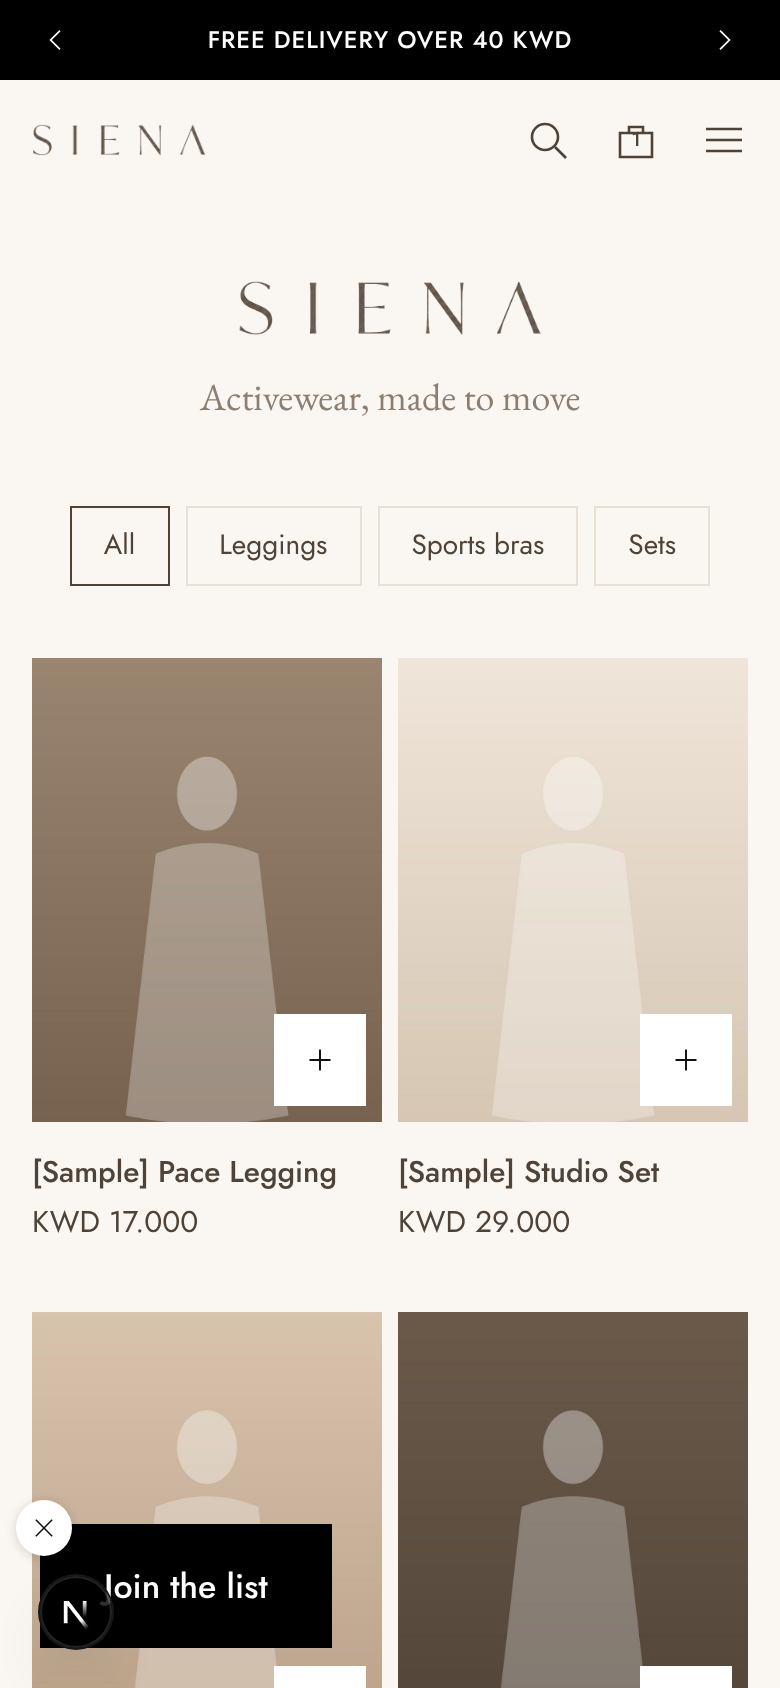
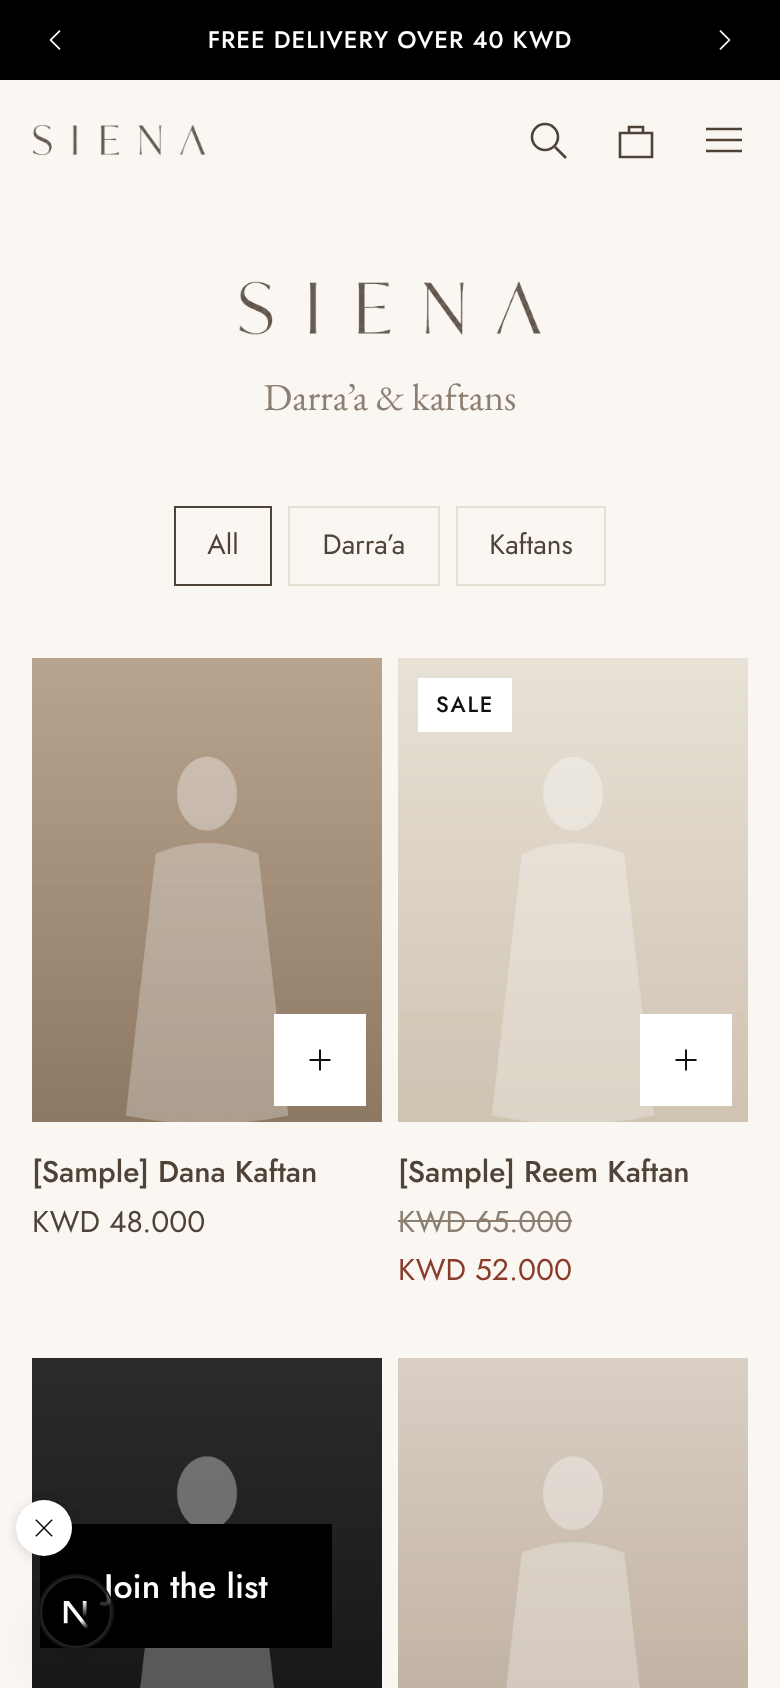
Formé is the activewear brand and Siena the darra'a brand
Swap the product lines in brand labels, interface text, sample data, README and
screenshots. Each brand keeps its own logo and colours.

Claude-Session: https://claude.ai/code/session_016LfKq5PNRajvigzyTZ3aCG

diff --git a/src/seed.ts b/src/seed.ts
@@ -51,11 +51,11 @@ async function placeholder(name: string, top: string, bottom: string, width = 90
 
 type Cat = { en: string; ar: string; brand: 'forme' | 'siena'; colors: [string, string] }
 const categoryDefs: Cat[] = [
-  { en: 'Darra’a', ar: 'دراعات', brand: 'forme', colors: ['#d9cfc4', '#a8957f'] },
-  { en: 'Kaftans', ar: 'قفاطين', brand: 'forme', colors: ['#3a3735', '#141312'] },
-  { en: 'Leggings', ar: 'ليقنز', brand: 'siena', colors: ['#8e7965', '#4f4337'] },
-  { en: 'Sports bras', ar: 'حمالات رياضية', brand: 'siena', colors: ['#e6d9ca', '#b89f86'] },
-  { en: 'Sets', ar: 'أطقم', brand: 'siena', colors: ['#cdb59c', '#76624f'] },
+  { en: 'Darra’a', ar: 'دراعات', brand: 'siena', colors: ['#d9cfc4', '#a8957f'] },
+  { en: 'Kaftans', ar: 'قفاطين', brand: 'siena', colors: ['#3a3735', '#141312'] },
+  { en: 'Leggings', ar: 'ليقنز', brand: 'forme', colors: ['#6c6965', '#161616'] },
+  { en: 'Sports bras', ar: 'حمالات رياضية', brand: 'forme', colors: ['#e4e2dd', '#a9a6a1'] },
+  { en: 'Sets', ar: 'أطقم', brand: 'forme', colors: ['#cfcdc9', '#4a4845'] },
 ]
 const categories: Record<string, number> = {}
 for (const [i, c] of categoryDefs.entries()) {
@@ -88,7 +88,7 @@ const samples: Sample[] = [
   {
     en: 'Noor Darra’a',
     ar: 'دراعة نور',
-    brand: 'forme',
+    brand: 'siena',
     category: 'Darra’a',
     price: 38,
     colors: [
@@ -101,7 +101,7 @@ const samples: Sample[] = [
   {
     en: 'Layal Darra’a',
     ar: 'دراعة ليال',
-    brand: 'forme',
+    brand: 'siena',
     category: 'Darra’a',
     price: 45,
     colors: [
@@ -114,7 +114,7 @@ const samples: Sample[] = [
   {
     en: 'Reem Kaftan',
     ar: 'قفطان ريم',
-    brand: 'forme',
+    brand: 'siena',
     category: 'Kaftans',
     price: 52,
     compareAtPrice: 65,
@@ -128,7 +128,7 @@ const samples: Sample[] = [
   {
     en: 'Dana Kaftan',
     ar: 'قفطان دانة',
-    brand: 'forme',
+    brand: 'siena',
     category: 'Kaftans',
     price: 48,
     colors: [
@@ -141,12 +141,12 @@ const samples: Sample[] = [
   {
     en: 'Sculpt Legging',
     ar: 'ليقنز سكلبت',
-    brand: 'siena',
+    brand: 'forme',
     category: 'Leggings',
     price: 18,
     colors: [
-      ['#6b5a4a', '#4f4337'],
-      ['#5e4f41', '#43392f'],
+      ['#3b3b3b', '#161616'],
+      ['#2e2e2e', '#111111'],
     ],
     sizes: ['XS', 'S', 'M', 'L'],
     featured: true,
@@ -154,12 +154,12 @@ const samples: Sample[] = [
   {
     en: 'Flow Bra',
     ar: 'حمالة فلو',
-    brand: 'siena',
+    brand: 'forme',
     category: 'Sports bras',
     price: 12,
     colors: [
-      ['#d8c3ad', '#b89f86'],
-      ['#cdb59c', '#a88e74'],
+      ['#d9d7d3', '#a9a6a1'],
+      ['#cfcdc9', '#9c9993'],
     ],
     sizes: ['XS', 'S', 'M', 'L'],
     featured: true,
@@ -167,12 +167,12 @@ const samples: Sample[] = [
   {
     en: 'Studio Set',
     ar: 'طقم ستوديو',
-    brand: 'siena',
+    brand: 'forme',
     category: 'Sets',
     price: 29,
     colors: [
-      ['#efe5d9', '#d6c6b3'],
-      ['#e6d9ca', '#cbb8a2'],
+      ['#efeee9', '#c9c6bf'],
+      ['#e4e2dd', '#bdbab3'],
     ],
     sizes: ['S', 'M', 'L'],
     featured: true,
@@ -180,12 +180,12 @@ const samples: Sample[] = [
   {
     en: 'Pace Legging',
     ar: 'ليقنز بيس',
-    brand: 'siena',
+    brand: 'forme',
     category: 'Leggings',
     price: 17,
     colors: [
-      ['#9a8571', '#76624f'],
-      ['#8e7965', '#6a5745'],
+      ['#77746f', '#4a4845'],
+      ['#6c6965', '#403e3b'],
     ],
     sizes: ['XS', 'S', 'M'],
     featured: true,
@@ -233,10 +233,10 @@ await payload.updateGlobal({
   data: {
     announcements: [
       { text: 'Free delivery over 40 KWD' },
-      { text: 'New Formé darra’a for the season' },
+      { text: 'New Siena darra’a for the season' },
     ],
-    formeTagline: 'Darra’a & kaftans',
-    sienaTagline: 'Activewear, made to move',
+    formeTagline: 'Activewear, made to move',
+    sienaTagline: 'Darra’a & kaftans',
     shippingFee: 2,
     freeShippingThreshold: 40,
   },
@@ -248,17 +248,17 @@ await payload.updateGlobal({
   data: {
     announcements: (settings.announcements ?? []).map((a, i) => ({
       id: a.id,
-      text: ['توصيل مجاني للطلبات فوق ٤٠ د.ك', 'دراعات فورميه الجديدة للموسم'][i],
+      text: ['توصيل مجاني للطلبات فوق ٤٠ د.ك', 'دراعات سيينا الجديدة للموسم'][i],
     })),
-    formeTagline: 'دراعات وقفاطين',
-    sienaTagline: 'ملابس رياضية للحركة',
+    formeTagline: 'ملابس رياضية للحركة',
+    sienaTagline: 'دراعات وقفاطين',
   },
 })
 
-const formeHero = await placeholder('Formé cover', '#cfc4b8', '#8d7b69', 1800, 1100)
-const formeHeroMobile = await placeholder('Formé cover phone', '#cfc4b8', '#8d7b69', 900, 1500)
-const sienaHero = await placeholder('Siena cover', '#9a8571', '#43392f', 1800, 1100)
-const sienaHeroMobile = await placeholder('Siena cover phone', '#9a8571', '#43392f', 900, 1500)
+const formeHero = await placeholder('Formé cover', '#8f8a84', '#2b2927', 1800, 1100)
+const formeHeroMobile = await placeholder('Formé cover phone', '#8f8a84', '#2b2927', 900, 1500)
+const sienaHero = await placeholder('Siena cover', '#d8cbbb', '#9a8571', 1800, 1100)
+const sienaHeroMobile = await placeholder('Siena cover phone', '#d8cbbb', '#9a8571', 900, 1500)
 
 await payload.updateGlobal({
   slug: 'homepage',
@@ -270,7 +270,7 @@ await payload.updateGlobal({
         media: formeHero.id,
         mobileMedia: formeHeroMobile.id,
         logo: 'forme',
-        title: 'The new season',
+        title: 'Made to move',
         linkBrand: 'forme',
       },
       {
@@ -284,14 +284,14 @@ await payload.updateGlobal({
         blockType: 'statement',
         text: 'Best selling pieces',
         subtitle: 'Feminine and flattering.',
-        linkBrand: 'forme',
+        linkBrand: 'siena',
       },
       {
         blockType: 'hero',
         media: sienaHero.id,
         mobileMedia: sienaHeroMobile.id,
         logo: 'siena',
-        title: 'Made to move',
+        title: 'The new season',
         linkBrand: 'siena',
       },
       {
@@ -307,10 +307,10 @@ await payload.updateGlobal({
 })
 const home = await payload.findGlobal({ slug: 'homepage', depth: 0 })
 const arText: Record<string, Record<string, string>> = {
-  0: { title: 'الموسم الجديد' },
+  0: { title: 'صُممت للحركة' },
   1: { title: 'فورميه — وصل حديثاً' },
   2: { text: 'القطع الأكثر مبيعاً', subtitle: 'أنيقة ومريحة.' },
-  3: { title: 'صُممت للحركة' },
+  3: { title: 'الموسم الجديد' },
   4: { title: 'سيينا — وصل حديثاً' },
   5: { title: 'تسوّقي حسب الفئة' },
 }

diff --git a/src/lib/i18n.ts b/src/lib/i18n.ts
@@ -9,8 +9,8 @@ const en = {
   shop: 'Shop',
   shopAll: 'Shop all',
   all: 'All',
-  formeLine: 'Darra’a & kaftans',
-  sienaLine: 'Activewear',
+  formeLine: 'Activewear',
+  sienaLine: 'Darra’a & kaftans',
   newIn: 'New in',
   bag: 'Bag',
   bagEmpty: 'Your bag is empty.',
@@ -90,8 +90,8 @@ const ar: Dictionary = {
   shop: 'تسوّقي',
   shopAll: 'عرض الكل',
   all: 'الكل',
-  formeLine: 'دراعات وقفاطين',
-  sienaLine: 'ملابس رياضية',
+  formeLine: 'ملابس رياضية',
+  sienaLine: 'دراعات وقفاطين',
   newIn: 'وصل حديثاً',
   bag: 'الحقيبة',
   bagEmpty: 'حقيبتك فارغة.',

diff --git a/src/app/(frontend)/[lang]/layout.tsx b/src/app/(frontend)/[lang]/layout.tsx
@@ -33,7 +33,7 @@ const arabic = IBM_Plex_Sans_Arabic({
 
 export const metadata: Metadata = {
   title: { default: 'Formé · Siena', template: '%s — Formé · Siena' },
-  description: 'Formé darra’a and kaftans, and Siena activewear. Delivered across Kuwait.',
+  description: 'Formé activewear, and Siena darra’a and kaftans. Delivered across Kuwait.',
 }
 
 // Pages read products and settings from the CMS on each request, so edits show up immediately.

diff --git a/src/lib/brands.ts b/src/lib/brands.ts
@@ -2,8 +2,8 @@ export const BRANDS = ['forme', 'siena'] as const
 export type Brand = (typeof BRANDS)[number]
 
 export const brandOptions = [
-  { label: 'Formé — Darra’a (دراعات)', value: 'forme' },
-  { label: 'Siena — Activewear', value: 'siena' },
+  { label: 'Formé — Activewear', value: 'forme' },
+  { label: 'Siena — Darra’a (دراعات)', value: 'siena' },
 ]
 
 export const brandNames: Record<Brand, string> = {

diff --git a/README.md b/README.md
@@ -2,8 +2,8 @@
 
 One online store for two brands:
 
-- **Formé** — darra’a (دراعات) and kaftans
-- **Siena** — activewear
+- **Formé** — activewear
+- **Siena** — darra’a (دراعات) and kaftans
 
 Each brand has its own section, colours and logo, and they share one bag and one checkout. The shop is in English
 and Arabic (right-to-left), payments go through **MyFatoorah** (KNET, Visa/Mastercard, Apple Pay), and the seller
@@ -57,8 +57,8 @@ optional; if it is left empty, the English text is shown.
    optional **original price** to show a sale. Set **Status** to *Hidden* to take a product off the shop without
    deleting it, and tick **Featured** to show it on the home page.
 
-**Categories**: the filters on each brand page and in the menu (for example *Darra’a*, *Kaftans*, *Leggings*,
-*Sets*). Give each one a picture to use it in category tiles.
+**Categories**: the filters on each brand page and in the menu (for example *Leggings*, *Sets*, *Darra’a*,
+*Kaftans*). Give each one a picture to use it in category tiles.
 
 **Home page**: build the home page from sections and drag them into any order:
 
